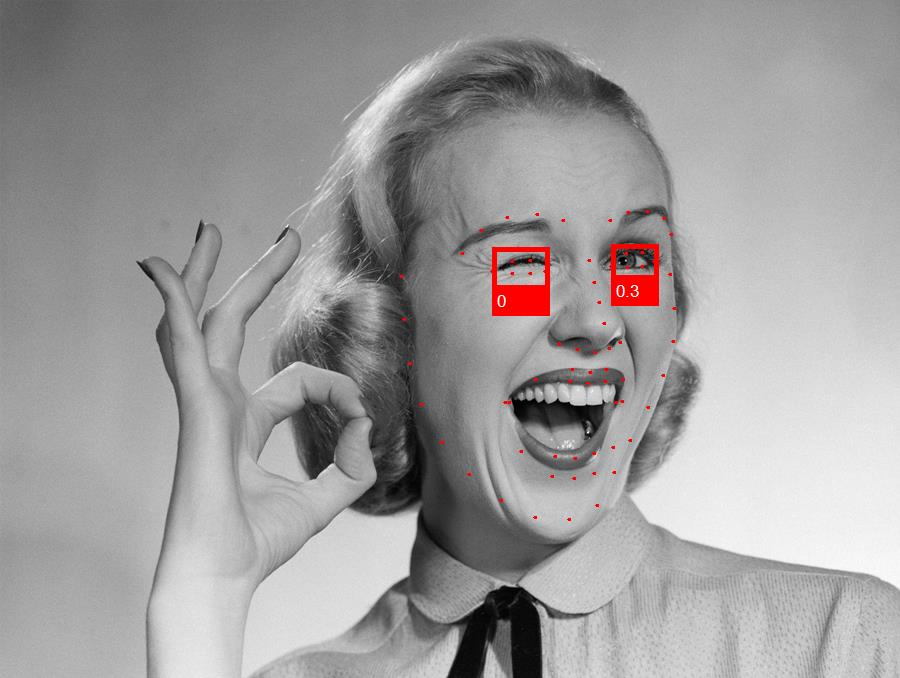
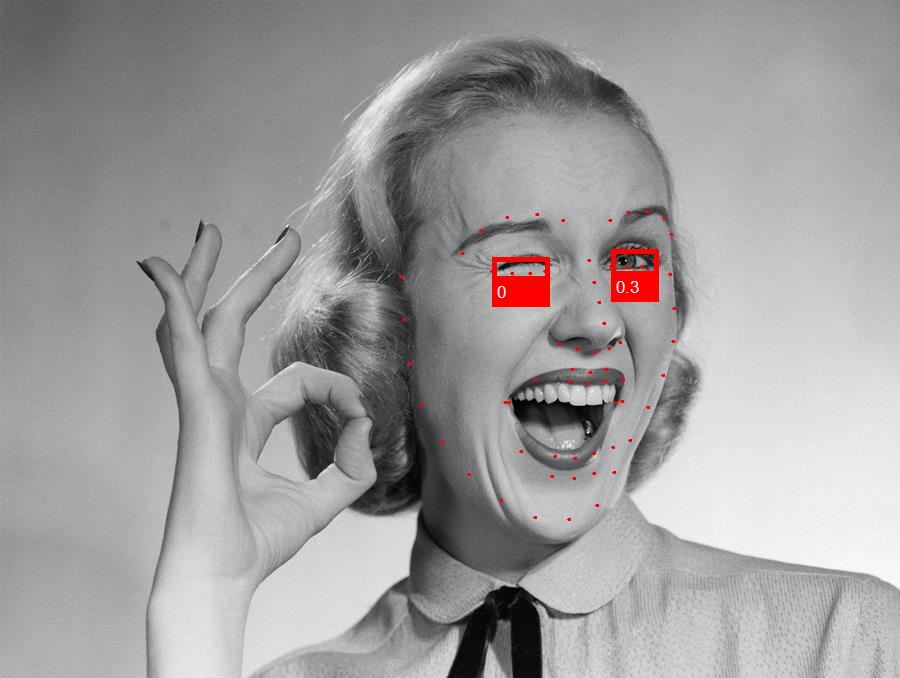
Fixtures for eye blink classifier and add new tools

Changed region(s): [[0.5289, 0.3407, 0.6222, 0.4646], [0.6844, 0.3407, 0.7467, 0.4646]]

diff --git a/netstandard/FaceONNX.Gpu/face/utils/Rectangles.cs b/netstandard/FaceONNX.Gpu/face/utils/Rectangles.cs
@@ -8,7 +8,97 @@ namespace FaceONNX
     /// </summary>
     public static class Rectangles
     {
-        #region Rectangles
+        #region Operators
+
+        /// <summary>
+        /// Returns processed rectangle.
+        /// </summary>
+        /// <param name="rectangle">Rectangle</param>
+        /// <param name="point">Point</param>
+        /// <returns>Rectangle</returns>
+        public static Rectangle Add(this Rectangle rectangle, Point point)
+        {
+            return new Rectangle
+            {
+                X = rectangle.X + point.X,
+                Y = rectangle.Y + point.Y,
+                Width = rectangle.Width,
+                Height = rectangle.Height
+            };
+        }
+
+        /// <summary>
+        /// Returns processed rectangle.
+        /// </summary>
+        /// <param name="rectangle">Rectangle</param>
+        /// <param name="point">Point</param>
+        /// <returns>Rectangle</returns>
+        public static Rectangle Sub(this Rectangle rectangle, Point point)
+        {
+            return new Rectangle
+            {
+                X = rectangle.X - point.X,
+                Y = rectangle.Y - point.Y,
+                Width = rectangle.Width,
+                Height = rectangle.Height
+            };
+        }
+
+        /// <summary>
+        /// Returns processed rectangles.
+        /// </summary>
+        /// <param name="rectangles">Rectangles</param>
+        /// <param name="point">Point</param>
+        /// <returns>Rectangles</returns>
+        public static Rectangle[] Add(this Rectangle[] rectangles, Point point)
+        {
+            var count = rectangles.Length;
+            var output = new Rectangle[count];
+            
+            for (int i = 0; i < count; i++)
+            {
+                output[i] = rectangles[i].Add(point);
+            }
+
+            return output;
+        }
+
+        /// <summary>
+        /// Returns processed rectangles.
+        /// </summary>
+        /// <param name="rectangles">Rectangles</param>
+        /// <param name="point">Point</param>
+        /// <returns>Rectangles</returns>
+        public static Rectangle[] Sub(this Rectangle[] rectangles, Point point)
+        {
+            var count = rectangles.Length;
+            var output = new Rectangle[count];
+
+            for (int i = 0; i < count; i++)
+            {
+                output[i] = rectangles[i].Sub(point);
+            }
+
+            return output;
+        }
+
+        #endregion
+
+        #region Special operators
+
+        /// <summary>
+        /// Returns point from rectangle.
+        /// </summary>
+        /// <param name="rectangle">Rectangle</param>
+        /// <returns>Point</returns>
+        public static Point GetPoint(this Rectangle rectangle)
+        {
+            return new Point
+            {
+                X = rectangle.X,
+                Y = rectangle.Y
+            };
+        }
 
         /// <summary>
         /// Returns size area.

diff --git a/netstandard/FaceONNX.Gpu/face/utils/Landmarks.cs b/netstandard/FaceONNX.Gpu/face/utils/Landmarks.cs
@@ -61,6 +61,37 @@ namespace FaceONNX
         #region Special operators
 
         /// <summary>
+        /// Returns rectangle from points.
+        /// </summary>
+        /// <param name="points">Points</param>
+        /// <returns>Rectangle</returns>
+        public static Rectangle GetRectangle(this Point[] points)
+        {
+            int length = points.Length;
+            int xmin = int.MaxValue;
+            int ymin = int.MaxValue;
+            int xmax = int.MinValue;
+            int ymax = int.MinValue;
+
+            for (int i = 0; i < length; i++)
+            {
+                int x = points[i].X;
+                int y = points[i].Y;
+
+                if (x < xmin)
+                    xmin = x;
+                if (y < ymin)
+                    ymin = y;
+                if (x > xmax)
+                    xmax = x;
+                if (y > ymax)
+                    ymax = y;
+            }
+
+            return new Rectangle(xmin, ymin, xmax - xmin, ymax - ymin);
+        }
+
+        /// <summary>
         /// Return angle of the three points.
         /// </summary>
         /// <param name="left">Left point</param>
@@ -116,37 +147,6 @@ namespace FaceONNX
         #endregion
 
         #region Face operators
-
-        /// <summary>
-        /// Returns rectangle from face points.
-        /// </summary>
-        /// <param name="points">Points</param>
-        /// <returns>Rectangle</returns>
-        public static Rectangle GetRectangle(this Point[] points)
-        {
-            int length = points.Length;
-            int xmin = int.MaxValue;
-            int ymin = int.MaxValue;
-            int xmax = int.MinValue;
-            int ymax = int.MinValue;
-
-            for (int i = 0; i < length; i++)
-            {
-                int x = points[i].X;
-                int y = points[i].Y;
-
-                if (x < xmin)
-                    xmin = x;
-                if (y < ymin)
-                    ymin = y;
-                if (x > xmax)
-                    xmax = x;
-                if (y > ymax)
-                    ymax = y;
-            }
-
-            return new Rectangle(xmin, ymin, xmax - xmin, ymax - ymin);
-        }
 
         /// <summary>
         /// Returns right eye points.

diff --git a/netstandard/FaceONNX.Gpu/face/classes/EyeBlinkClassifier.cs b/netstandard/FaceONNX.Gpu/face/classes/EyeBlinkClassifier.cs
@@ -79,37 +79,35 @@ namespace FaceONNX
 			return confidences;
 		}
 
-		#endregion
+        #endregion
 
-		#region Static
+        #region Static
 
 		/// <summary>
-		/// Returns left and right eye rectangles from facelandmarks.
+		/// Returns left and right eye rectangles from face landmarks.
 		/// </summary>
 		/// <param name="points">Points</param>
 		/// <returns>Left and right eye rectangles</returns>
 		public static (Rectangle, Rectangle) GetEyesRectangles(Point[] points)
-		{
-			var factor_y = -0.3f;
+        {
+			var factor_y = 0.5f;
 
 			var left_eye_rect = points.GetLeftEye()
 				.GetRectangle()
-				.ToBox()
 				.Scale(0.0f, factor_y);
 
 			var right_eye_rect = points.GetRightEye()
 				.GetRectangle()
-				.ToBox()
 				.Scale(0.0f, factor_y);
 
 			return (left_eye_rect, right_eye_rect);
 		}
 
-		#endregion
+        #endregion
 
-		#region IDisposable
+        #region IDisposable
 
-		private bool _disposed;
+        private bool _disposed;
 
 		/// <inheritdoc/>
 		public void Dispose()

diff --git a/netstandard/FaceONNX/face/classes/EyeBlinkClassifier.cs b/netstandard/FaceONNX/face/classes/EyeBlinkClassifier.cs
@@ -84,22 +84,20 @@ namespace FaceONNX
         #region Static
 
 		/// <summary>
-		/// Returns left and right eye rectangles from facelandmarks.
+		/// Returns left and right eye rectangles from face landmarks.
 		/// </summary>
 		/// <param name="points">Points</param>
 		/// <returns>Left and right eye rectangles</returns>
 		public static (Rectangle, Rectangle) GetEyesRectangles(Point[] points)
         {
-			var factor_y = -0.3f;
+			var factor_y = 0.5f;
 
 			var left_eye_rect = points.GetLeftEye()
 				.GetRectangle()
-				.ToBox()
 				.Scale(0.0f, factor_y);
 
 			var right_eye_rect = points.GetRightEye()
 				.GetRectangle()
-				.ToBox()
 				.Scale(0.0f, factor_y);
 
 			return (left_eye_rect, right_eye_rect);

diff --git a/netstandard/Examples/EyeBlinkDetection/Program.cs b/netstandard/Examples/EyeBlinkDetection/Program.cs
@@ -50,8 +50,8 @@ namespace EyeBlinkDetection
                     var left_eye_rect = eyes.Item1;
                     var right_eye_rect = eyes.Item2;
 
-                    using var left_eye = BitmapTransform.Crop(aligned, left_eye_rect);
-                    using var right_eye = BitmapTransform.Crop(aligned, right_eye_rect);
+                    using var left_eye = BitmapTransform.Crop(cropped, left_eye_rect);
+                    using var right_eye = BitmapTransform.Crop(cropped, right_eye_rect);
 
                     var left_eye_value = eyeBlinkClassifier.Forward(left_eye);
                     var right_eye_value = eyeBlinkClassifier.Forward(right_eye);
